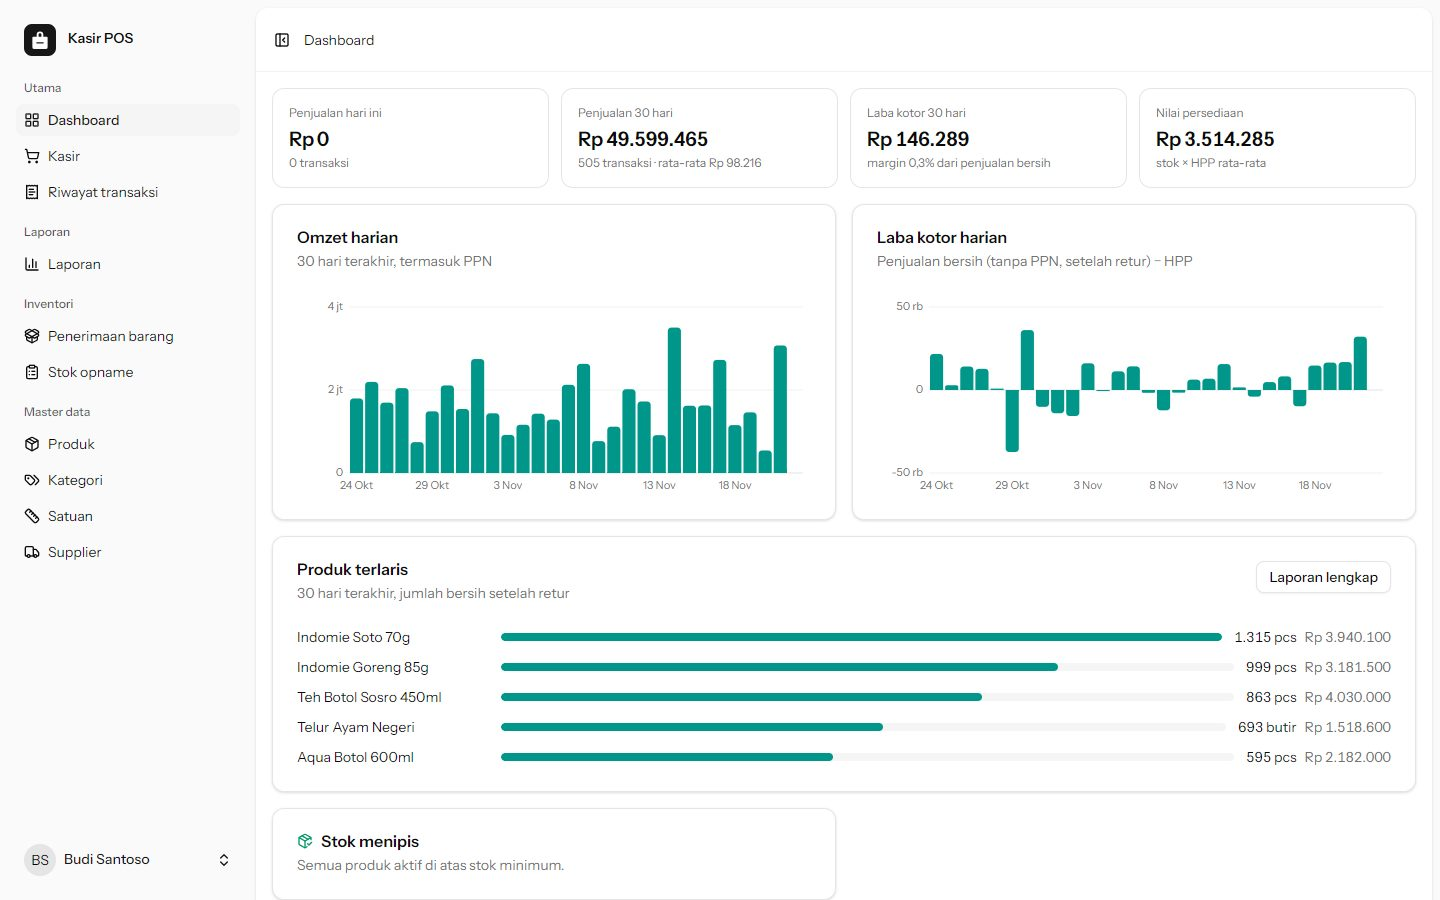
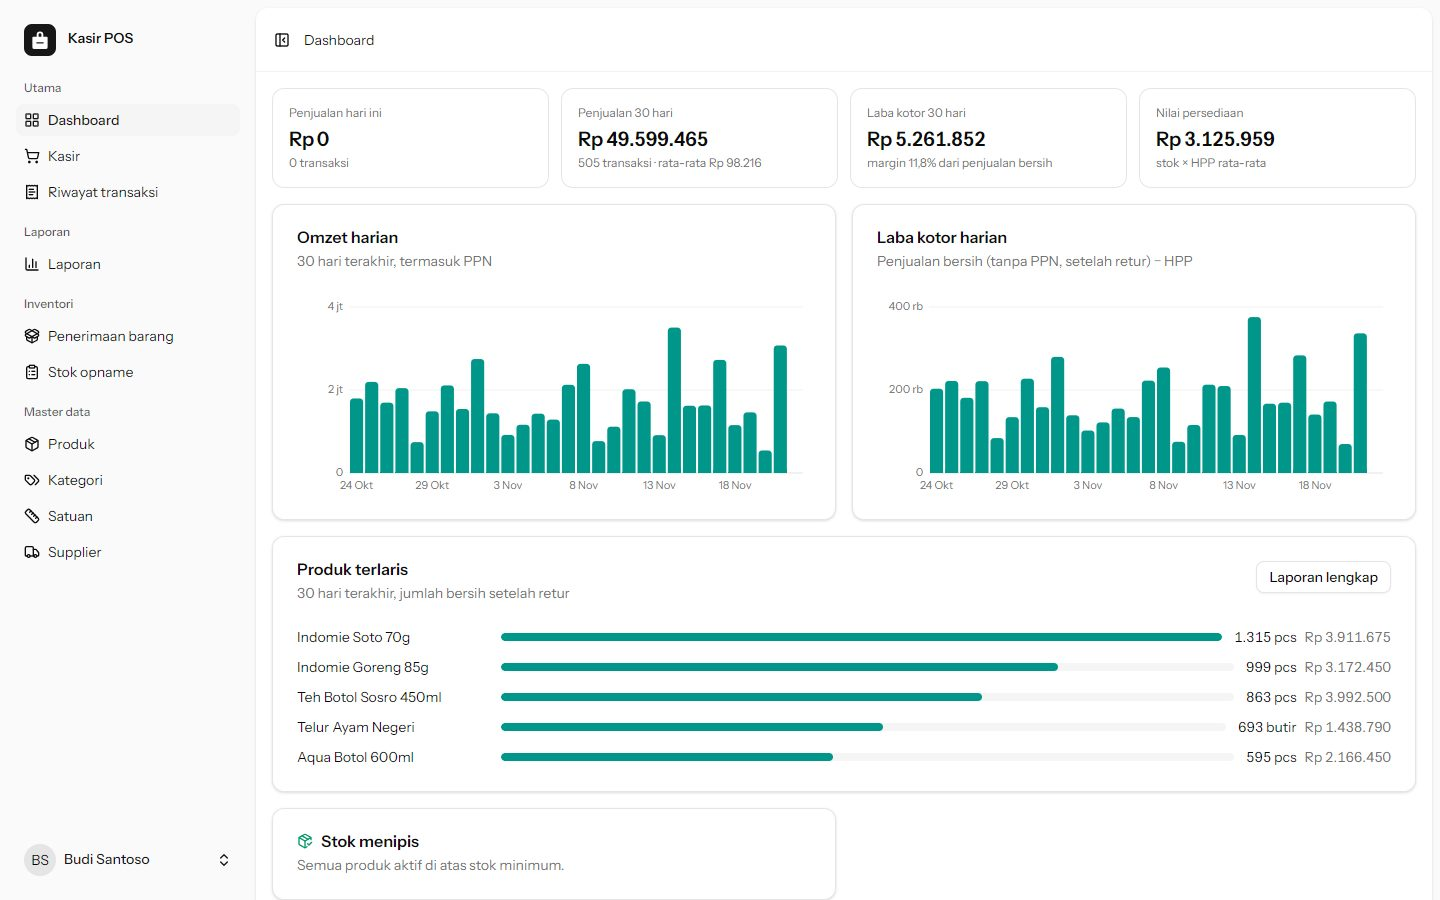
Give the demo catalogue realistic buy prices
Sell prices include PPN, but the buy prices sat at or above the sell
price without PPN for cartons and sacks, so the demo showed a 0.3% gross
margin and loss-making products. Buy prices are now about 88% of the
largest unit's price without PPN: the 30-day demo comes out at 11.8%,
every product between 9% and 14%. Owner screenshots retaken.

diff --git a/database/seeders/CatalogSeeder.php b/database/seeders/CatalogSeeder.php
@@ -19,20 +19,23 @@ class CatalogSeeder extends Seeder
 {
     /**
      * [sku, name, category, base unit, min stock, units: [unit, conversion, sell price, buy price per unit], opening qty in largest unit]
+     *
+     * Sell prices include PPN (effective 11%); buy prices are about 88% of the largest unit's
+     * price without PPN, so the demo shows a gross margin of roughly 10–15%.
      */
     private const PRODUCTS = [
-        ['MIE-001', 'Indomie Goreng 85g', 'Makanan Instan', 'pcs', 40, [['pcs', 1, 3500, null], ['dus', 40, 125000, 112000]], 5],
-        ['MIE-002', 'Indomie Soto 70g', 'Makanan Instan', 'pcs', 40, [['pcs', 1, 3300, null], ['dus', 40, 118000, 106000]], 3],
-        ['MNM-001', 'Aqua Botol 600ml', 'Minuman', 'pcs', 24, [['pcs', 1, 4000, null], ['dus', 24, 85000, 72000]], 4],
-        ['MNM-002', 'Teh Botol Sosro 450ml', 'Minuman', 'pcs', 24, [['pcs', 1, 5000, null], ['dus', 24, 110000, 96000]], 3],
-        ['KOP-001', 'Kopi Kapal Api Special Mix Sachet', 'Minuman', 'pcs', 20, [['pcs', 1, 1500, null], ['renceng', 10, 14000, 12000]], 10],
-        ['SMB-001', 'Beras Rojolele 5kg', 'Sembako', 'karung', 5, [['karung', 1, 78000, 70000]], 20],
-        ['SMB-002', 'Gula Pasir Gulaku 1kg', 'Sembako', 'pcs', 10, [['pcs', 1, 18500, 16500]], 30],
-        ['SMB-003', 'Minyak Goreng Bimoli 2L', 'Sembako', 'pcs', 6, [['pcs', 1, 40000, null], ['dus', 6, 230000, 216000]], 4],
-        ['SMB-004', 'Telur Ayam Negeri', 'Sembako', 'butir', 30, [['butir', 1, 2200, null], ['tray', 30, 62000, 54000]], 4],
-        ['MDI-001', 'Sabun Lifebuoy 75g', 'Perawatan Diri', 'pcs', 8, [['pcs', 1, 4500, null], ['pak', 4, 17000, 15000]], 6],
-        ['MDI-002', 'Pasta Gigi Pepsodent 190g', 'Perawatan Diri', 'pcs', 6, [['pcs', 1, 14500, 12000]], 12],
-        ['RT-001', 'Rinso Anti Noda 770g', 'Kebutuhan Rumah', 'pcs', 5, [['pcs', 1, 24000, 21000]], 10],
+        ['MIE-001', 'Indomie Goreng 85g', 'Makanan Instan', 'pcs', 40, [['pcs', 1, 3500, null], ['dus', 40, 125000, 99000]], 5],
+        ['MIE-002', 'Indomie Soto 70g', 'Makanan Instan', 'pcs', 40, [['pcs', 1, 3300, null], ['dus', 40, 118000, 93500]], 3],
+        ['MNM-001', 'Aqua Botol 600ml', 'Minuman', 'pcs', 24, [['pcs', 1, 4000, null], ['dus', 24, 85000, 67500]], 4],
+        ['MNM-002', 'Teh Botol Sosro 450ml', 'Minuman', 'pcs', 24, [['pcs', 1, 5000, null], ['dus', 24, 110000, 87000]], 3],
+        ['KOP-001', 'Kopi Kapal Api Special Mix Sachet', 'Minuman', 'pcs', 20, [['pcs', 1, 1500, null], ['renceng', 10, 14000, 11000]], 10],
+        ['SMB-001', 'Beras Rojolele 5kg', 'Sembako', 'karung', 5, [['karung', 1, 78000, 62000]], 20],
+        ['SMB-002', 'Gula Pasir Gulaku 1kg', 'Sembako', 'pcs', 10, [['pcs', 1, 18500, 14700]], 30],
+        ['SMB-003', 'Minyak Goreng Bimoli 2L', 'Sembako', 'pcs', 6, [['pcs', 1, 40000, null], ['dus', 6, 230000, 182000]], 4],
+        ['SMB-004', 'Telur Ayam Negeri', 'Sembako', 'butir', 30, [['butir', 1, 2200, null], ['tray', 30, 62000, 49000]], 4],
+        ['MDI-001', 'Sabun Lifebuoy 75g', 'Perawatan Diri', 'pcs', 8, [['pcs', 1, 4500, null], ['pak', 4, 17000, 13500]], 6],
+        ['MDI-002', 'Pasta Gigi Pepsodent 190g', 'Perawatan Diri', 'pcs', 6, [['pcs', 1, 14500, 11500]], 12],
+        ['RT-001', 'Rinso Anti Noda 770g', 'Kebutuhan Rumah', 'pcs', 5, [['pcs', 1, 24000, 19000]], 10],
     ];
 
     public function run(): void

diff --git a/tests/Feature/DemoSeederTest.php b/tests/Feature/DemoSeederTest.php
@@ -19,10 +19,10 @@ it('seeds demo accounts with roles and an opening stock that matches the ledger'
 
     expect(GoodsReceipt::count())->toBe(1);
 
-    // Indomie Goreng: 5 dus × 40 = 200 pcs, at 112.000 / 40 = 2.800 per pcs
+    // Indomie Goreng: 5 dus × 40 = 200 pcs, at 99.000 / 40 = 2.475 per pcs
     expect(Product::where('sku', 'MIE-001')->sole())
         ->stock_on_hand->toBe(200)
-        ->avg_cost->toBe('2800.0000');
+        ->avg_cost->toBe('2475.0000');
 
     $this->artisan('stock:rebuild')->assertSuccessful();
 });

diff --git a/docs/DESIGN.md b/docs/DESIGN.md
@@ -114,10 +114,6 @@ Implementasi: `spatie/laravel-permission`, role tetap (tanpa UI pengaturan permi
 - **`sail up`.** `compose.yaml` dan `docker/sail-start.sh` sudah ditulis, tetapi container belum pernah dijalankan.
 - **GitHub Actions.** Workflow `.github/workflows/tests.yml` sudah ada, tetapi repo belum di-push sehingga belum pernah jalan di runner GitHub. Perintah yang sama sudah lulus secara lokal (SQLite dan PostgreSQL).
 
-### Isu terbuka
-
-- Harga beli di `CatalogSeeder` hampir sama dengan harga jual tanpa PPN untuk satuan besar (dus/karung), sehingga data demo menunjukkan margin kotor sekitar 0,3%. Ini masalah data demo, bukan perhitungan.
-
 ## 9. Keputusan implementasi (2026-11-22)
 
 ### 9.1 Laba kotor
@@ -156,6 +152,7 @@ Implementasi: `spatie/laravel-permission`, role tetap (tanpa UI pengaturan permi
 ### 9.6 Platform & data demo
 
 - **PHP minimal 8.4** (`composer.json`: `^8.4`); pengembangan dan Sail memakai PHP 8.5.
+- Harga beli di `CatalogSeeder` sekitar 88% dari harga jual satuan terbesar tanpa PPN, sehingga data demo menunjukkan margin kotor wajar (±12%).
 - `DemoSalesSeeder` (30 hari penjualan, restok, retur, QRIS yang sudah lunas) **hanya jalan saat `APP_ENV=local`**, supaya `migrate --seed` di produksi tidak mengisi transaksi palsu. Semua data dibuat lewat Action yang sama dengan aplikasi, jadi buku besar tetap konsisten.
 
 ### 9.7 CI
